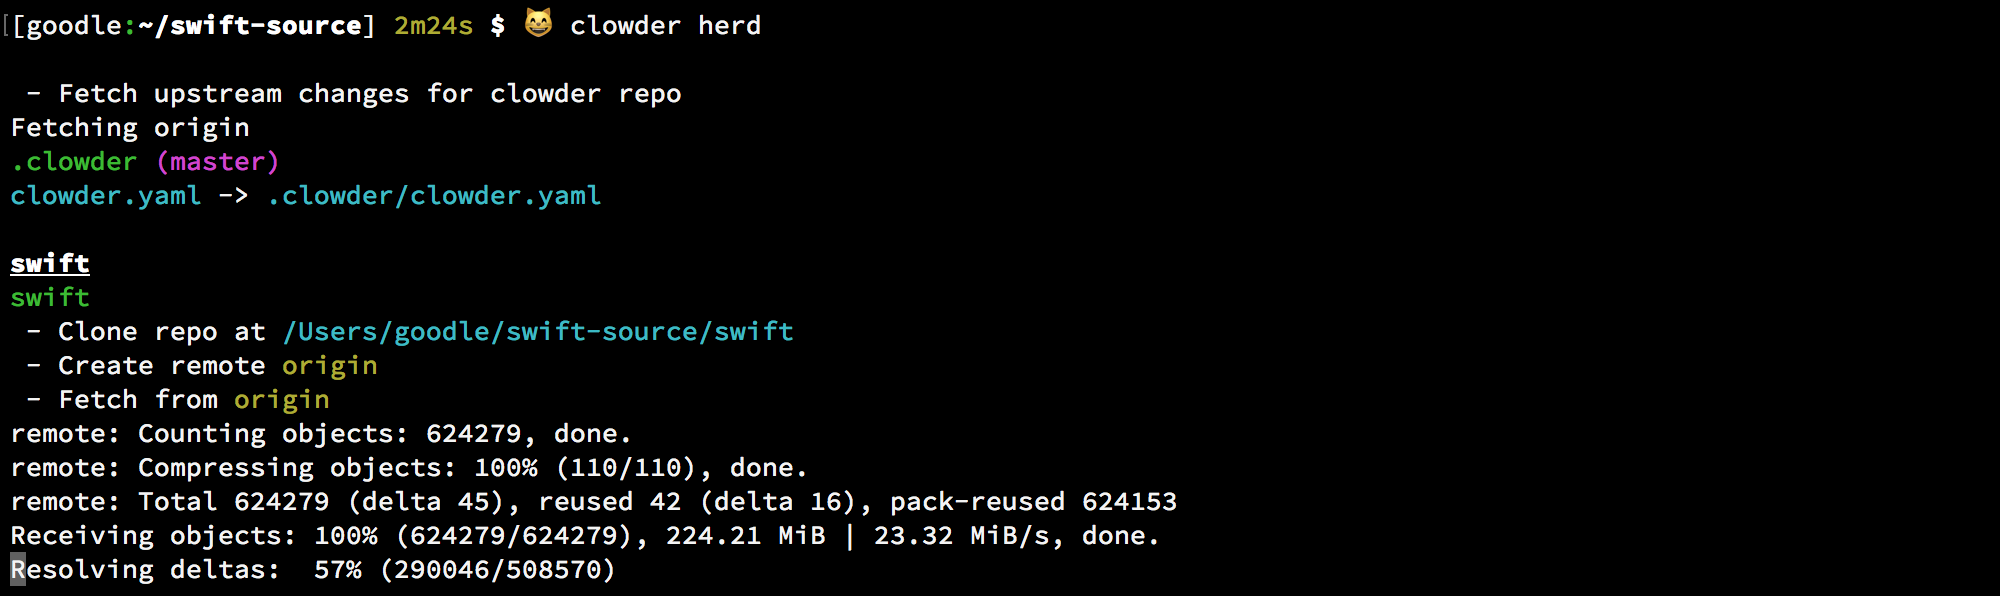
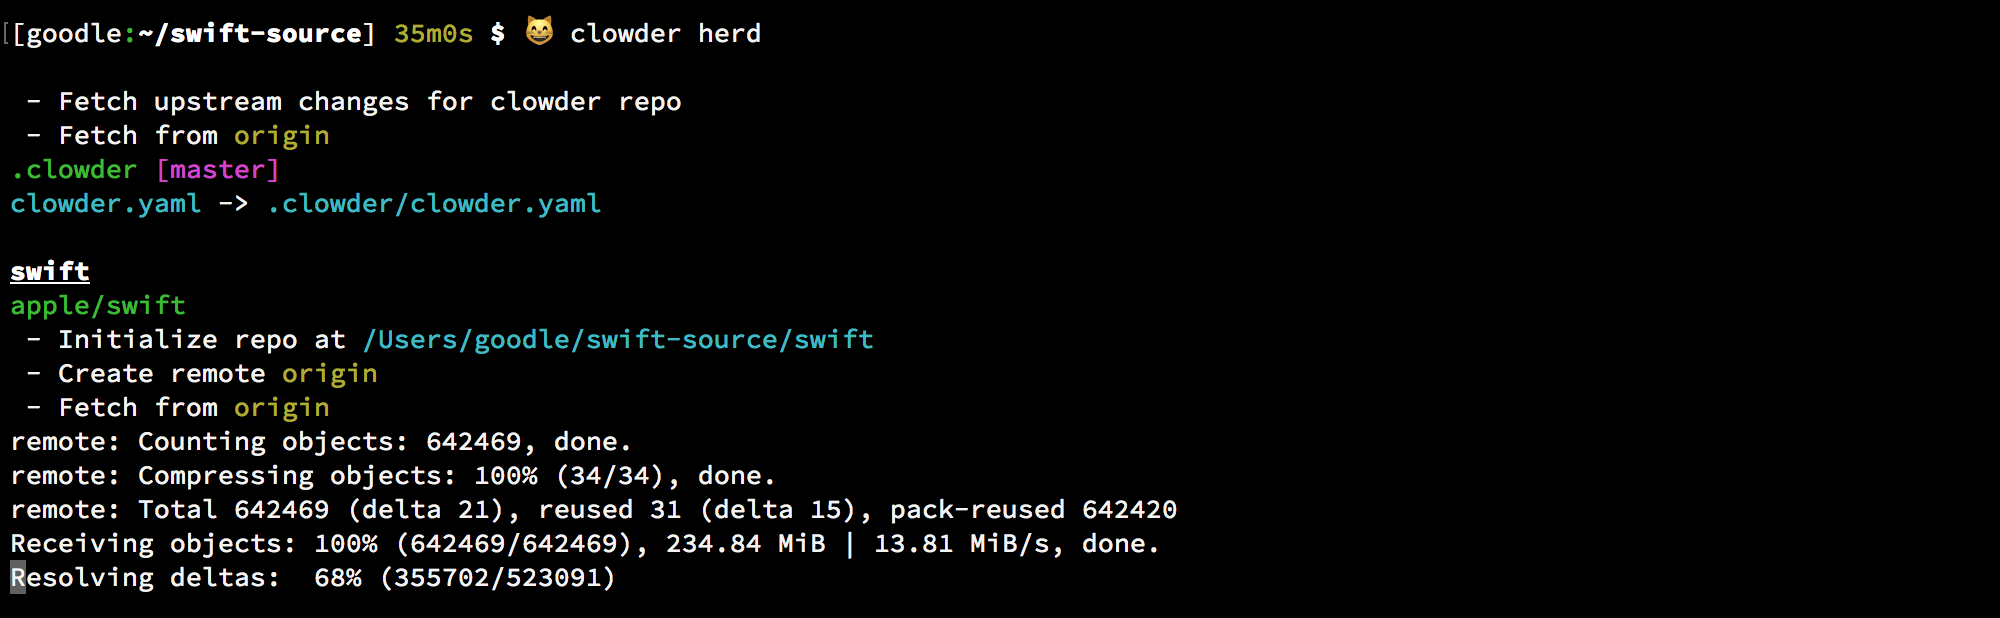
Update README images

diff --git a/README.md b/README.md
@@ -82,6 +82,10 @@ $ clowder herd
 - If the current git ref checked out doesn't match the `clowder.yaml` configuration, the correct ref will be checked out
 - The latest changes are pulled for branches. For commits and tags, the commits are checked out into a detached `HEAD` state
 
+It's also possible to run `clowder herd` in parallel
+
+![clowder herd parallel](docs/README/clowder-herd-parallel.png)
+
 ## `clowder status`
 
 ```bash
